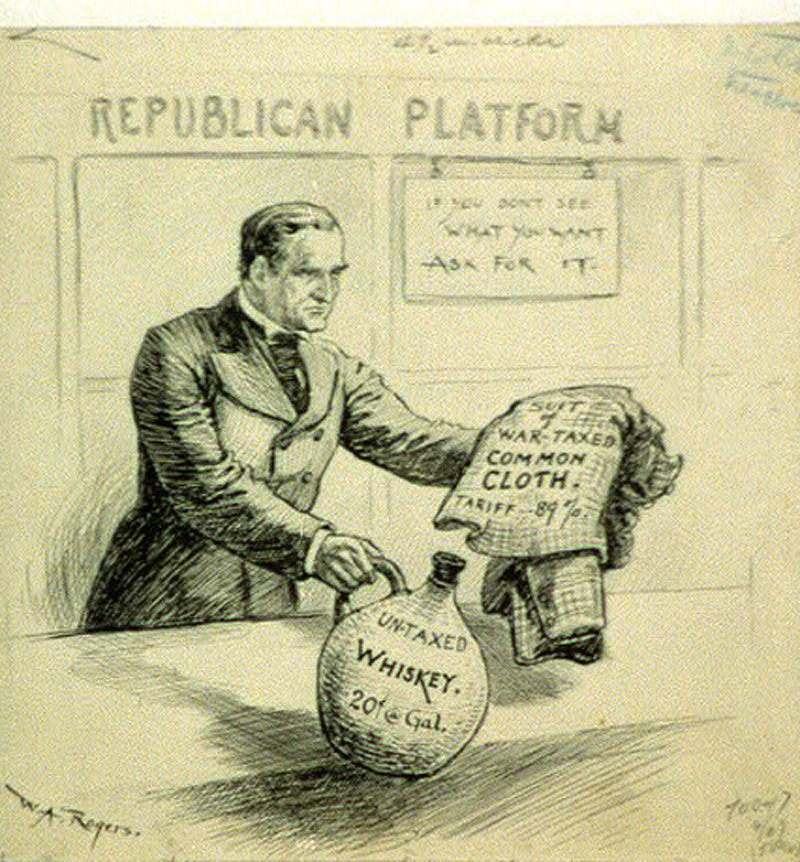
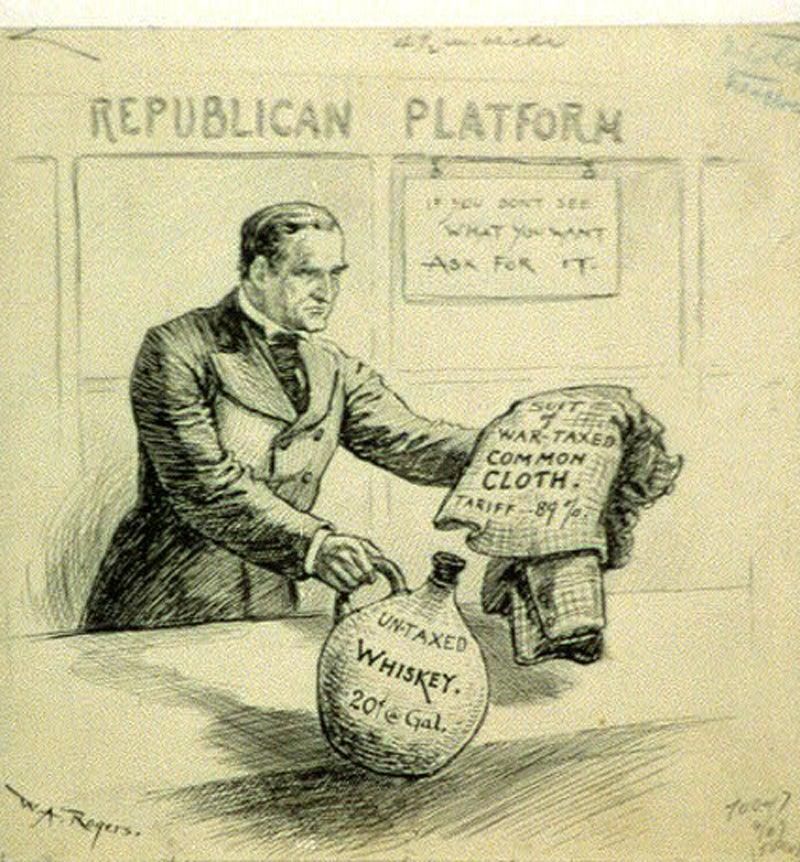
Swap hero image for cleaner 800x862 version; update caption to McKinley Tariff
Source: Harper's Weekly, July 7, 1888 (W.A. Rogers / Library of Congress)
166KB vs prior 630KB, same cartoon

diff --git a/posts/masters-defense.html b/posts/masters-defense.html
@@ -803,7 +803,7 @@
 
   <figure class="post-hero-img">
     <img src="images/mckinley-tariff-cartoon.jpg" alt="W.A. Rogers political cartoon — Republican Platform store with war-taxed cloth and untaxed whiskey, McKinley Tariff era circa 1890">
-    <p class="post-hero-caption">W.A. Rogers, <em>Republican Platform</em>, c. 1890 &mdash; Tariff-protected cloth at 89%, untaxed whiskey at 20&cent;/gal. Public domain.</p>
+    <p class="post-hero-caption">W.A. Rogers, <em>Harper&rsquo;s Weekly</em>, July 7, 1888 &mdash; The McKinley Tariff: war-taxed cloth at 89%, untaxed whiskey at 20&cent;/gal. Library of Congress. Public domain.</p>
   </figure>
 
   <div class="article-body">
